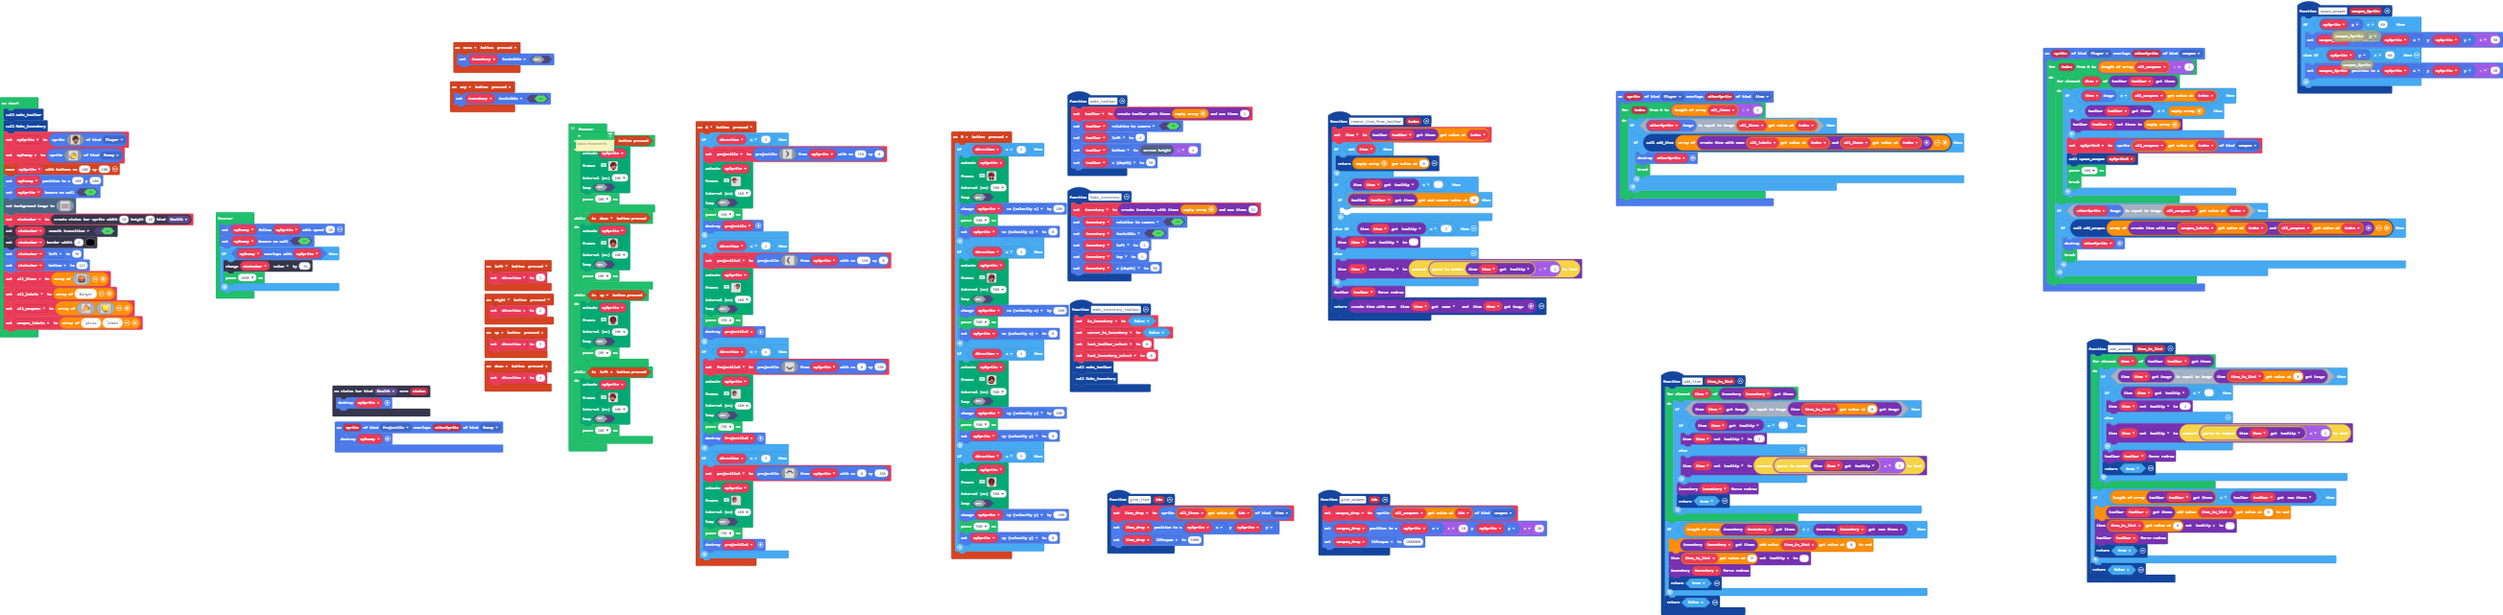
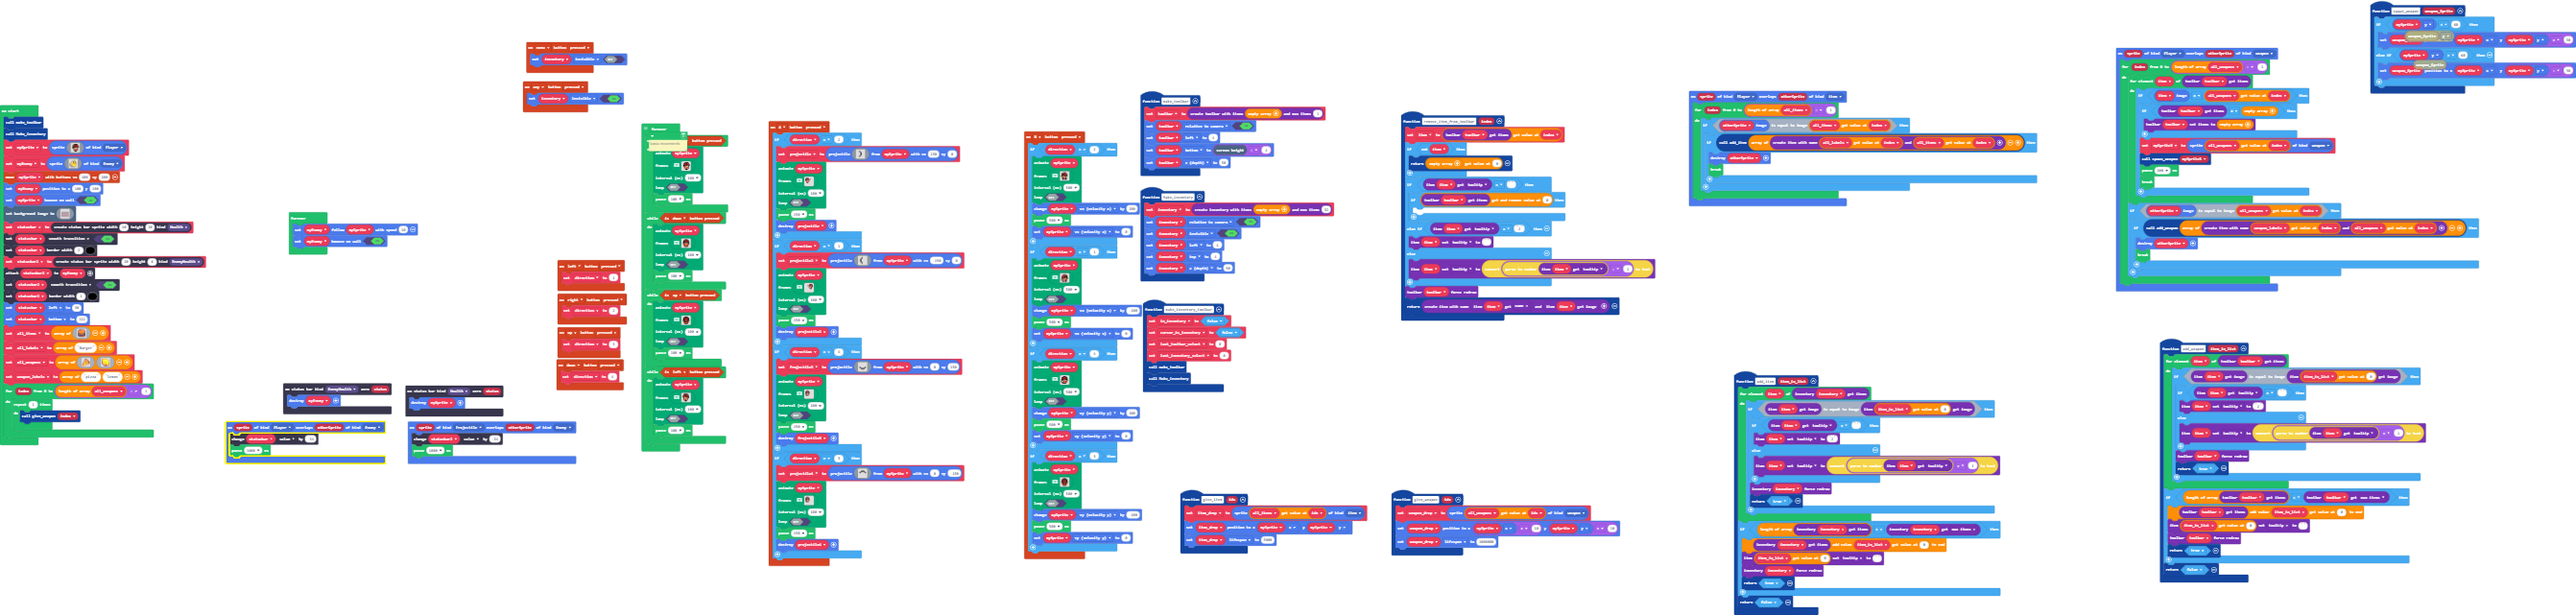
changes to enemy health and health bar for enemy

Changed region(s): [[0.0, 0.0, 0.9939, 1.0], [0.8075, 0.5616, 0.9628, 0.936], [0.7143, 0.2808, 0.7454, 0.312]]

diff --git a/main.ts b/main.ts
@@ -891,6 +891,9 @@ sprites.onOverlap(SpriteKind.Player, SpriteKind.item, function (sprite, otherSpr
         }
     }
 })
+statusbars.onZero(StatusBarKind.EnemyHealth, function (status) {
+    sprites.destroy(myEnemy)
+})
 statusbars.onZero(StatusBarKind.Health, function (status) {
     sprites.destroy(mySprite)
 })
@@ -985,7 +988,12 @@ function give_weapon (idx: number) {
     weapon_drop.lifespan = 1000000
 }
 sprites.onOverlap(SpriteKind.Projectile, SpriteKind.Enemy, function (sprite, otherSprite) {
-    sprites.destroy(myEnemy)
+    statusbar2.value += -34
+    pause(1000)
+})
+sprites.onOverlap(SpriteKind.Player, SpriteKind.Enemy, function (sprite, otherSprite) {
+    statusbar.value += -34
+    pause(1000)
 })
 let weapon_drop: Sprite = null
 let mySprite3: Sprite = null
@@ -1006,6 +1014,8 @@ let weapon_labels: string[] = []
 let all_weapons: Image[] = []
 let all_labels: string[] = []
 let all_items: Image[] = []
+let statusbar2: StatusBarSprite = null
+let statusbar: StatusBarSprite = null
 let myEnemy: Sprite = null
 let mySprite: Sprite = null
 make_toolbar()
@@ -1154,9 +1164,13 @@ scene.setBackgroundImage(img`
     bbbbbbbbbbbbbbbbbbbbbbbbbbbbbbbbbbbbbbccbbbbbbbbbbbbbbbbbbbbbbbbbbbbbbbbbbbbbbbbbbbbbbbbbbbbbbbbbbbbbbbbbbbbbbbbbbbbbbbbbbbbbbbbbbbbbbbbbbbbbbbbbbbbbbbbbbbbbbbb
     bbbbbbbbbbbbbbbbbbbbbbbbbbbbbbbbbbbbbbbbbbbbbbbbbbbbbbbbbbbbbbbbbbbbbbbbbbbbbbbbbbbbbbbbbbbbbbbbbbbbbbbbbbbbbbbbbbbbbbbbbbbbbbbbbbbbbbbbbbbbbbbbbbbbbbbbbbbbbbbb
     `)
-let statusbar = statusbars.create(40, 10, StatusBarKind.Health)
+statusbar = statusbars.create(40, 10, StatusBarKind.Health)
 statusbar.setStatusBarFlag(StatusBarFlag.SmoothTransition, true)
 statusbar.setBarBorder(2, 15)
+statusbar2 = statusbars.create(20, 6, StatusBarKind.EnemyHealth)
+statusbar2.attachToSprite(myEnemy)
+statusbar2.setStatusBarFlag(StatusBarFlag.SmoothTransition, true)
+statusbar2.setBarBorder(1, 15)
 statusbar.left = 30
 statusbar.bottom = 112
 all_items = [img`
@@ -1214,6 +1228,11 @@ all_weapons = [img`
     . . . . . . c c c c c c b b 4 . 
     `]
 weapon_labels = ["pizza", "lemon"]
+for (let index = 0; index <= all_weapons.length - 1; index++) {
+    for (let index2 = 0; index2 < 1; index2++) {
+        give_weapon(index)
+    }
+}
 // basic movements
 forever(function () {
     while (controller.right.isPressed()) {
@@ -1528,8 +1547,4 @@ forever(function () {
 forever(function () {
     myEnemy.follow(mySprite, 10)
     myEnemy.setBounceOnWall(true)
-    if (myEnemy.overlapsWith(mySprite)) {
-        statusbar.value += -34
-        pause(1000)
-    }
 })
